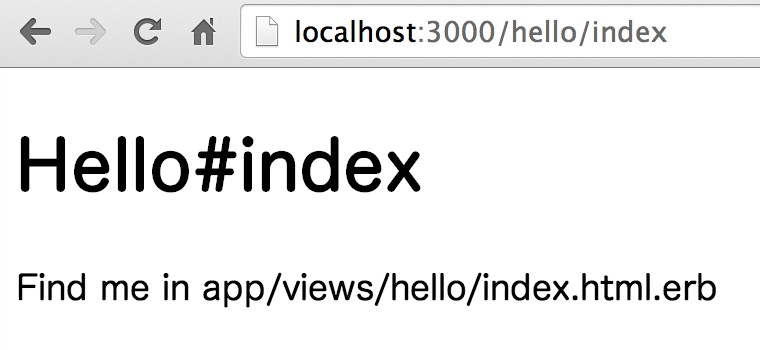
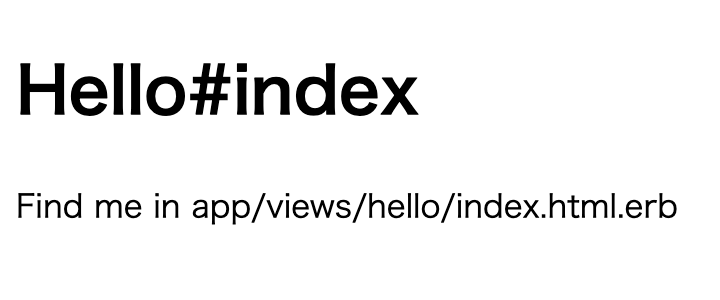
Replace screenshots in smallest-app

Changed region(s): [[0.0, 0.0, 1.0, 0.57], [0.0, 0.78, 0.9472, 0.87], [0.0, 0.63, 0.9472, 0.75]]

diff --git a/_posts/2014-06-01-smallest-app.md b/_posts/2014-06-01-smallest-app.md
@@ -158,7 +158,7 @@ Use Ctrl-C to stop
 + <p>Hello world!</p>
 ```
 
-![Hello world](assets/smallest-app/helloworld.png)
+![Hello world](assets/smallest-app/hello_world.png)
 
 "Hello world!"の文字が表示されましたか？これで一番小さなRailsアプリができあがりました。ここへ、少しだけRubyのコードを書いて、現在時刻を表示する機能を追加してみましょう。以下のように、+の行を追加してください。
 
